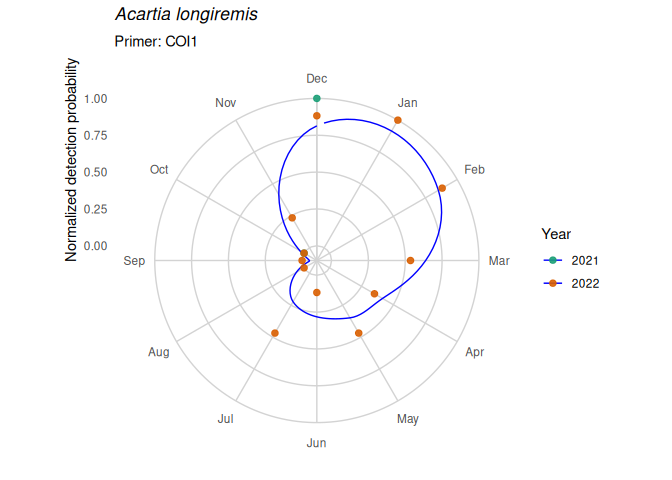
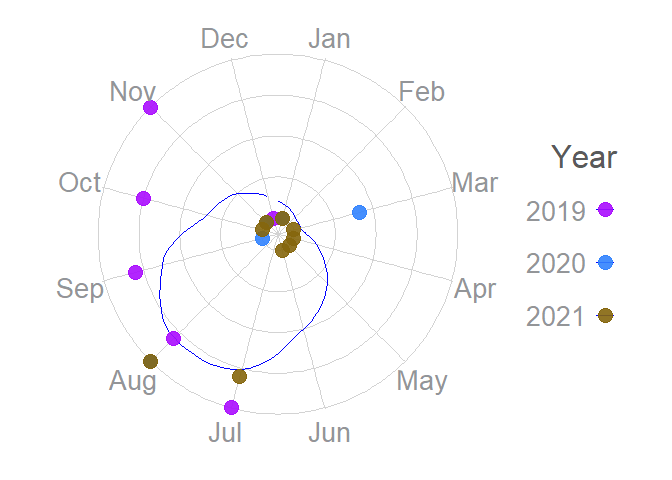
Relbuild README with updated functions and data format.

diff --git a/README.md b/README.md
@@ -25,7 +25,6 @@ We recommend to use R and RStudio:
 
 2.  Install R Studio
 
-
 #### Install the package
 
 You first need to have access to the archive `GoteDNA_{version}.tar.gz`.
@@ -41,7 +40,8 @@ You can install the development version of GOTeDNA from
 [GitHub](https://github.com/) with:
 
 ``` r
-install.packages("devtools")
+# install.packages("devtools")
+devtools::install_github("mkmor/GOTeDNA")
 devtools::install_github("mkmor/GOTeDNA", dependencies = TRUE)
 ```
 
@@ -52,14 +52,13 @@ install.packages("devtools")
 devtools::install_local("path/to/the/repo", dependencies = TRUE)
 ```
 
-
 ## Usage
 
 ### R function categories:
 
--   Import data
--   Clean/tidy data
--   Visualization
+- Import data
+- Clean/tidy data
+- Visualization
 
 ``` r
 library("GOTeDNA")
@@ -71,7 +70,11 @@ library("GOTeDNA")
 newprob <- calc_det_prob(data = D_mb_ex)
 scaledprobs <- scale_newprob(D_mb_ex, newprob)
 win <- calc_window(
-  data = D_mb_ex, threshold = "90", species.name = "Acartia longiremis",scaledprobs
+  data = D_mb_ex, 
+  threshold = "75", 
+  taxon.level = "species",
+  taxon.name = "Acartia longiremis", 
+  scaledprobs
 )
 ```
 
@@ -79,7 +82,11 @@ win <- calc_window(
 
 ``` r
 hm_fig(
-   taxon.level = "class", taxon.name = "Copepoda", scaledprobs)
+   taxon.level = "class", 
+   taxon.name = "Copepoda", 
+   scaledprobs)
+#> Warning in ggplot2::geom_tile(dplyr::filter(scaledprobs, `Detection rate` > :
+#> Ignoring unknown aesthetics: text
 ```
 
 <img src="man/figures/README-hm-1.png" width="100%" />
@@ -88,51 +95,104 @@ hm_fig(
 
 ``` r
 effort_needed_fig(
-  scaledprobs$Pscaled_month |> dplyr::filter(
-      species %in% "Acartia hudsonica",
-      primer == "COI1"
-  )
+  taxon.level = "genus",
+  taxon.name ="Acartia",
+  scaledprobs
 )
+#> Warning in grid.Call(C_stringMetric, as.graphicsAnnot(x$label)): font family
+#> not found in Windows font database
+
+#> Warning in grid.Call(C_stringMetric, as.graphicsAnnot(x$label)): font family
+#> not found in Windows font database
+#> Warning in grid.Call.graphics(C_text, as.graphicsAnnot(x$label), x$x, x$y, :
+#> font family not found in Windows font database
+
+#> Warning in grid.Call.graphics(C_text, as.graphicsAnnot(x$label), x$x, x$y, :
+#> font family not found in Windows font database
+
+#> Warning in grid.Call.graphics(C_text, as.graphicsAnnot(x$label), x$x, x$y, :
+#> font family not found in Windows font database
 ```
 
 <img src="man/figures/README-effort-1.png" width="100%" />
-ecodistrict.select = “Scotian Shelf”, \### Sampling effort
+
+### Sampling effort
 
 ``` r
-higher_tax_fig(
-  data = D_mb_ex |> dplyr::filter(target_subfragment == "COI1"), 
-  higher.taxon.select = "phylum", 
-  taxon.name = "Bryozoa",
-  view.by.level = "genus"
+field_sample_fig(
+  data = D_mb_ex, 
+  taxon.level = "genus", 
+  taxon.name = "Acartia"
 )
+#> Warning in grid.Call(C_textBounds, as.graphicsAnnot(x$label), x$x, x$y, : font
+#> family not found in Windows font database
+#> Warning in grid.Call(C_stringMetric, as.graphicsAnnot(x$label)): font family
+#> not found in Windows font database
+#> Warning in grid.Call(C_textBounds, as.graphicsAnnot(x$label), x$x, x$y, : font
+#> family not found in Windows font database
+
+#> Warning in grid.Call(C_textBounds, as.graphicsAnnot(x$label), x$x, x$y, : font
+#> family not found in Windows font database
+
+#> Warning in grid.Call(C_textBounds, as.graphicsAnnot(x$label), x$x, x$y, : font
+#> family not found in Windows font database
+
+#> Warning in grid.Call(C_textBounds, as.graphicsAnnot(x$label), x$x, x$y, : font
+#> family not found in Windows font database
+#> Warning in grid.Call.graphics(C_text, as.graphicsAnnot(x$label), x$x, x$y, :
+#> font family not found in Windows font database
+
+#> Warning in grid.Call.graphics(C_text, as.graphicsAnnot(x$label), x$x, x$y, :
+#> font family not found in Windows font database
+
+#> Warning in grid.Call.graphics(C_text, as.graphicsAnnot(x$label), x$x, x$y, :
+#> font family not found in Windows font database
+
+#> Warning in grid.Call.graphics(C_text, as.graphicsAnnot(x$label), x$x, x$y, :
+#> font family not found in Windows font database
+
+#> Warning in grid.Call.graphics(C_text, as.graphicsAnnot(x$label), x$x, x$y, :
+#> font family not found in Windows font database
+
+#> Warning in grid.Call.graphics(C_text, as.graphicsAnnot(x$label), x$x, x$y, :
+#> font family not found in Windows font database
+
+#> Warning in grid.Call.graphics(C_text, as.graphicsAnnot(x$label), x$x, x$y, :
+#> font family not found in Windows font database
+
+#> Warning in grid.Call.graphics(C_text, as.graphicsAnnot(x$label), x$x, x$y, :
+#> font family not found in Windows font database
 ```
 
-<img src="man/figures/README-higher-1.png" width="100%" />
-
-### Sample size
-
-``` r
-sample_size_fig(
-  data = D_mb_ex |> dplyr::filter(scientificName == "Acartia hudsonica"),
-  species.name = "Acartia hudsonica"
-)
-```
-
-<img src="man/figures/README-sample_size-1.png" width="100%" />
+<img src="man/figures/README-field-1.png" width="100%" />
 
 ### Species monthly detection
 
 ``` r
-D_mb_ex_slc <- D_mb_ex |>
-  dplyr::filter(
-    scientificName == "Acartia longiremis",
-    target_subfragment == "COI1"
-  )
+
 smooth_fig(
-  data = D_mb_ex_slc, 
-  species.name = "Acartia longiremis"
+  data = D_mb_ex, 
+  taxon.level = "species",
+  taxon.name = "Acartia longiremis"
 )
-#> Warning in RColorBrewer::brewer.pal(length(unique(data$year)), "Dark2"): minimal value for n is 3, returning requested palette with 3 different levels
+#> $`2.3`
+#> Warning: Removed 1 row containing missing values or values outside the scale range
+#> (`geom_vline()`).
+#> Warning: Removed 4 rows containing missing values or values outside the scale range
+#> (`geom_path()`).
+#> Warning in grid.Call(C_textBounds, as.graphicsAnnot(x$label), x$x, x$y, : font
+#> family not found in Windows font database
+
+#> Warning in grid.Call(C_textBounds, as.graphicsAnnot(x$label), x$x, x$y, : font
+#> family not found in Windows font database
+#> Warning in grid.Call.graphics(C_text, as.graphicsAnnot(x$label), x$x, x$y, :
+#> font family not found in Windows font database
+
+#> Warning in grid.Call.graphics(C_text, as.graphicsAnnot(x$label), x$x, x$y, :
+#> font family not found in Windows font database
+
+#> Warning in grid.Call.graphics(C_text, as.graphicsAnnot(x$label), x$x, x$y, :
+#> font family not found in Windows font database
 ```
 
 <img src="man/figures/README-smooth-1.png" width="100%" />
@@ -140,8 +200,14 @@ smooth_fig(
 ### Monthly detection probabilities
 
 ``` r
-thresh_fig(taxon.level = "species", taxon.name = "Acartia hudsonica", 
-  threshold = "75", scaledprobs)
+thresh_fig(
+  taxon.level = "species", 
+  taxon.name = "Acartia longiremis", 
+  threshold = "75", 
+  scaledprobs)
+#> $`2.3`
+#> Warning in grid.Call(C_textBounds, as.graphicsAnnot(x$label), x$x, x$y, : font
+#> family not found in Windows font database
 ```
 
 <img src="man/figures/README-thresh_fig-1.png" width="100%" />
